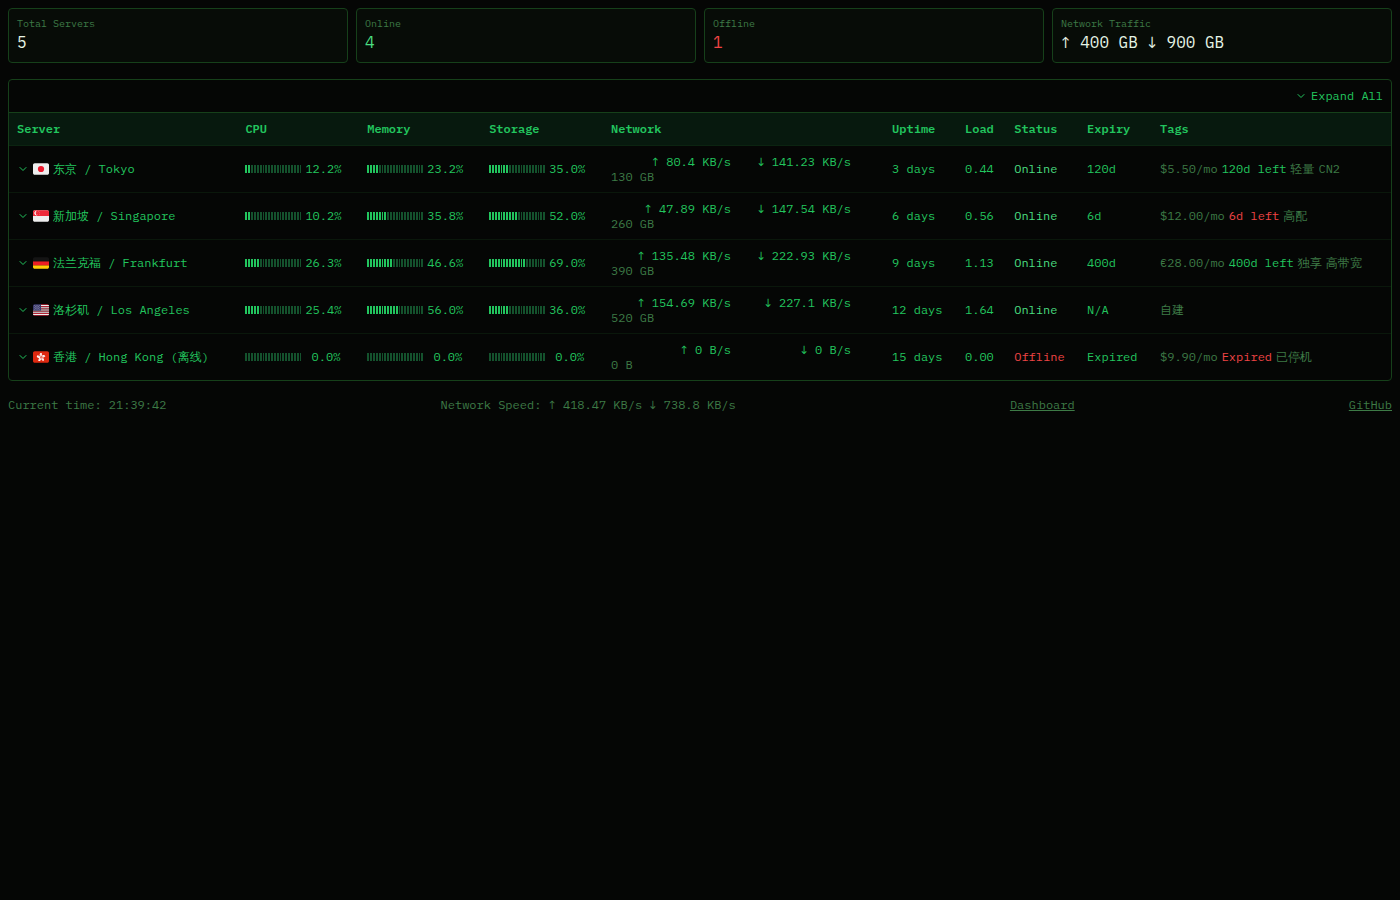
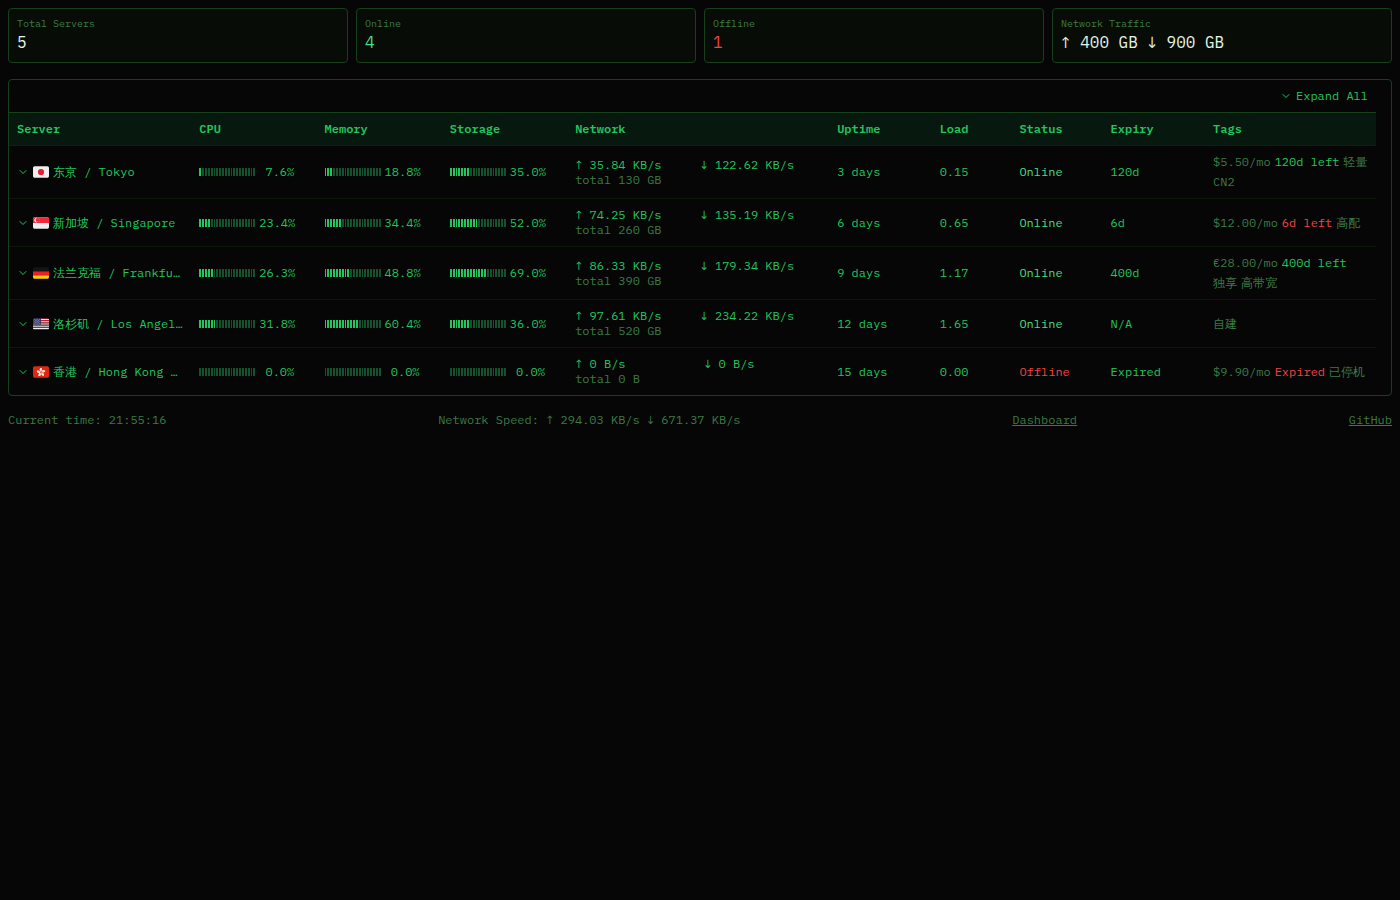
fix: stable Network column alignment, no expand jitter, total label
- ServerTable: table-fixed + colgroup widths so columns keep constant
  width regardless of content changes; scrollbar-gutter stable stops
  the page jittering sideways when a row expands/collapses
- Network cell: upload/download in a tight auto-width grid (gap-x-3),
  left-aligned to the column; 'total' prefix on the cumulative traffic
  line; tabular-nums keeps digits equal-width so values never shift

diff --git a/src/components/ascii/ServerTable.tsx b/src/components/ascii/ServerTable.tsx
@@ -21,7 +21,11 @@ export function ServerTable({
   onToggleExpandAll,
 }: ServerTableProps) {
   return (
-    <div className="border border-[var(--ascii-border)] rounded overflow-x-auto">
+    // scrollbar-gutter:stable 始终预留滚动条空间，展开行出现/消失横向滚动条时不再抖动整页
+    <div
+      className="border border-[var(--ascii-border)] rounded overflow-x-auto"
+      style={{ scrollbarGutter: "stable" }}
+    >
       <div className="p-2 border-b border-[var(--ascii-border)] flex justify-end">
         <button
           onClick={onToggleExpandAll}
@@ -40,10 +44,23 @@ export function ServerTable({
           )}
         </button>
       </div>
-      <table className="w-full text-left text-[10px] sm:text-xs whitespace-nowrap">
+      {/* table-fixed：列宽完全由 colgroup 决定，内容跳变不再撑动列宽，避免展开行时抖动 */}
+      <table className="w-full text-left text-[10px] sm:text-xs whitespace-nowrap table-fixed">
+        <colgroup>
+          <col className="w-[160px] min-w-[160px]" />
+          <col className="w-[110px] min-w-[110px]" />
+          <col className="w-[110px] min-w-[110px]" />
+          <col className="w-[110px] min-w-[110px]" />
+          <col className="w-[230px] min-w-[230px]" />
+          <col className="w-[90px] min-w-[90px]" />
+          <col className="w-[70px] min-w-[70px]" />
+          <col className="w-[80px] min-w-[80px]" />
+          <col className="w-[90px] min-w-[90px]" />
+          <col className="w-[150px] min-w-[150px]" />
+        </colgroup>
         <thead>
           <tr className="bg-[var(--ascii-primary)]/10">
-            <th className="p-1 sm:p-2 min-w-[140px]">Server</th>
+            <th className="p-1 sm:p-2">Server</th>
             <th className="p-1 sm:p-2">CPU</th>
             <th className="p-1 sm:p-2">Memory</th>
             <th className="p-1 sm:p-2">Storage</th>
@@ -52,7 +69,7 @@ export function ServerTable({
             <th className="p-1 sm:p-2">Load</th>
             <th className="p-1 sm:p-2">Status</th>
             <th className="p-1 sm:p-2">Expiry</th>
-            <th className="p-1 sm:p-2 min-w-[140px]">Tags</th>
+            <th className="p-1 sm:p-2">Tags</th>
           </tr>
         </thead>
         <tbody>
@@ -68,7 +85,7 @@ export function ServerTable({
                     isExpanded && "bg-[var(--ascii-primary)]/10"
                   )}
                 >
-                  <td className="p-1 sm:p-2 min-w-[140px]">
+                  <td className="p-1 sm:p-2">
                     <div className="flex items-center gap-1">
                       {isExpanded ? (
                         <ChevronUp className="w-3 h-3 flex-shrink-0" />
@@ -122,20 +139,19 @@ export function ServerTable({
                     </div>
                   </td>
                   <td className="p-1 sm:p-2">
-                    <div className="flex flex-col leading-tight whitespace-nowrap">
-                      {/* 固定宽度：上/下网速各占定宽列，数值右对齐，
-                          避免数值随单位跳变（KB/s↔MB/s、2.9↔2.75）时整列拉伸 */}
-                      <span className="flex">
-                        <span className="inline-block w-[7.5rem] text-right tabular-nums">
-                          ↑ {formatSpeed(server.up)}
-                        </span>
-                        <span className="inline-block w-[7.5rem] text-right tabular-nums">
-                          ↓ {formatSpeed(server.down)}
-                        </span>
+                    {/* 两段按内容宽度紧挨排列（auto auto），整体左对齐到 ↑ 栏，
+                        避免下行被右半格边缘撑开离上行太远；
+                        tabular-nums 保证数字等宽，数值跳变不抖动 */}
+                    <div className="grid grid-cols-[auto_auto] gap-x-3 leading-tight whitespace-nowrap tabular-nums">
+                      <span className="text-left">
+                        ↑ {formatSpeed(server.up)}
                       </span>
-                      <span className="text-[var(--ascii-muted)] tabular-nums">
-                        {formatBytes(server.net_out_transfer + server.net_in_transfer)}
+                      <span className="text-left">
+                        ↓ {formatSpeed(server.down)}
                       </span>
+                    </div>
+                    <div className="text-[var(--ascii-muted)] tabular-nums">
+                      total {formatBytes(server.net_out_transfer + server.net_in_transfer)}
                     </div>
                   </td>
                   <td className="p-1 sm:p-2">
@@ -156,7 +172,7 @@ export function ServerTable({
                   <td className="p-1 sm:p-2">
                     {formatExpiry(server)}
                   </td>
-                  <td className="p-1 sm:p-2 min-w-[140px]">
+                  <td className="p-1 sm:p-2">
                     <div className="flex flex-wrap gap-1">
                       {server.price && (
                         <span className="text-[var(--ascii-muted)]">{server.price}</span>
